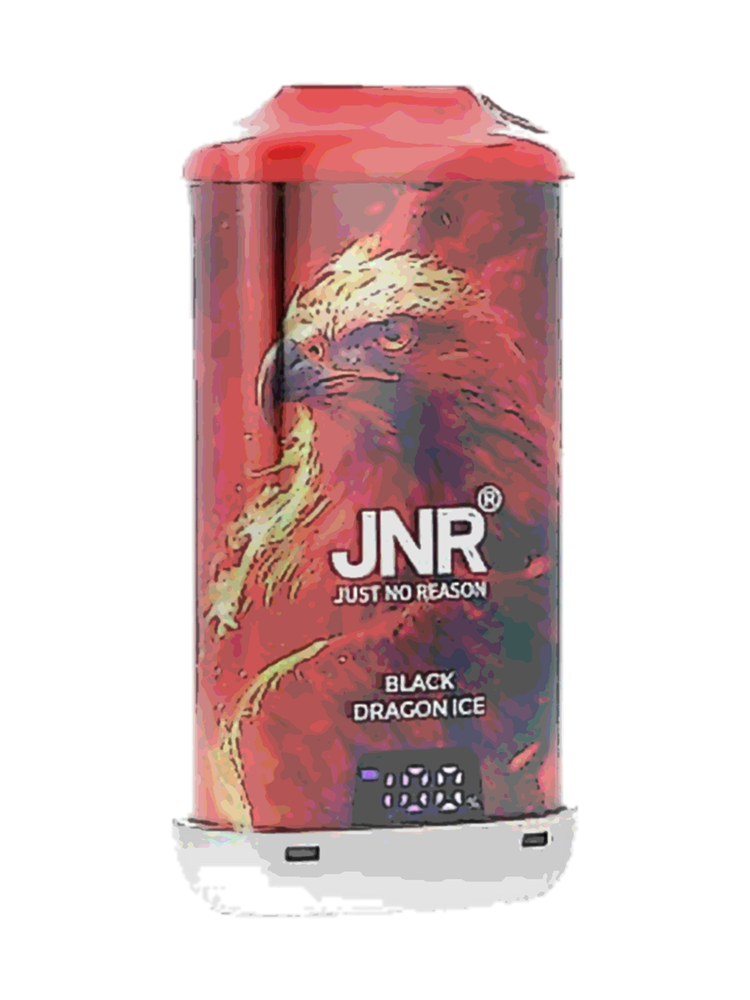
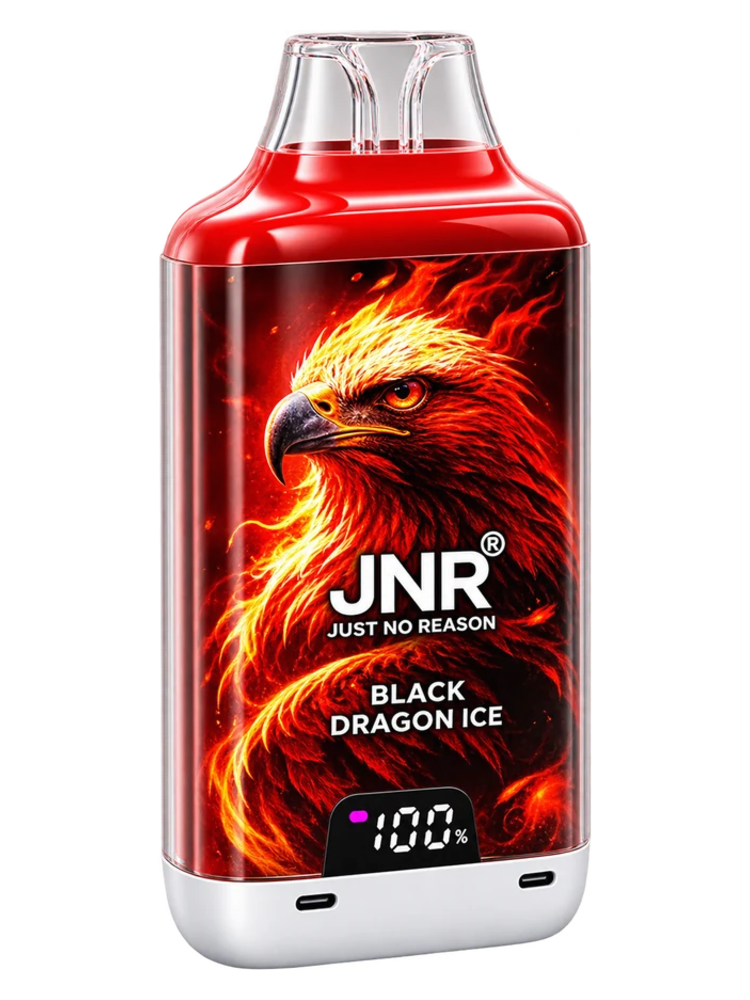
news

diff --git a/js/main.js b/js/main.js
@@ -4,14 +4,14 @@ const CONTACT_EMAIL='';         // ← mettez votre adresse e-mail de contact ic
 const SALES_BASE={};            // ventes de départ par goût, ex. {'cherry-ice':12,'luv-66':7}
 const RAW=[
 "Strawberry Kiwi|#e92420|#efa639|Fraise sucrée et kiwi acidulé, un duo vif et rafraîchissant.",
-"Mixed Berry|#e94f20|#efce39|Assortiment de baies rouges et bleues, doux et fruité.",
+"Mixed Berry|#209ce9|#ef4239|Assortiment de baies rouges et bleues, doux et fruité.",
 "Strawberry Watermelon|#e92420|#efa639|Fraise mûre et pastèque juteuse, l'équilibre estival.",
 "Peach Berry|#e92720|#efa939|Pêche tendre mêlée à des baies sauvages.",
-"Dragon Ice|#e92420|#efa639|Fruit du dragon exotique avec une touche glacée.",
-"Blackberry Red Raspberry|#e92720|#39acef|Mûre profonde et framboise rouge intense.",
-"Blueberry Pomegranate Ice|#20bde9|#395def|Myrtille, grenade et fraîcheur glacée.",
-"Mango Passion Fruit|#20e9b7|#39b2ef|Mangue ensoleillée et fruit de la passion.",
-"Watermelon Mango Peach|#e92420|#efa639|Trio gourmand de pastèque, mangue et pêche.",
+"Dragon Ice|#e92720|#efa939|Fruit du dragon exotique avec une touche glacée.",
+"Blackberry Red Raspberry|#9220e9|#ef4539|Mûre profonde et framboise rouge intense.",
+"Blueberry Pomegranate Ice|#20bae9|#395aef|Myrtille, grenade et fraîcheur glacée.",
+"Mango Passion Fruit|#20e9bd|#39acef|Mangue ensoleillée et fruit de la passion.",
+"Watermelon Mango Peach|#e92720|#efa939|Trio gourmand de pastèque, mangue et pêche.",
 "Blueberry Raspberry Cherry|#20c1e9|#394eef|Myrtille, framboise et cerise : le trio des baies.",
 "Cherry Ice|#20d8e9|#3976ef|Cerise éclatante sur fond de fraîcheur glacée.",
 "Watermelon Ice|#e92420|#efa639|Pastèque désaltérante et sensation glacée.",
@@ -30,7 +30,7 @@ const saveCatalog=c=>store.set('jnr_catalog',c);
 const PHOTOS=new Set(['strawberry-kiwi','mixed-berry','strawberry-watermelon','peach-berry','dragon-ice','blackberry-red-raspberry','blueberry-pomegranate-ice','mango-passion-fruit','watermelon-mango-peach','blueberry-raspberry-cherry','cherry-ice','watermelon-ice','watermelon-bubblegum','cherry-watermelon-freeze','blueberry-sour-raspberry','fizzy-cherry-cola','luv-66']);
 const isPhoto=p=>!p.img&&PHOTOS.has(p.id);
 /* IMG_V : augmentez ce numéro à chaque remplacement d'image pour forcer les navigateurs à recharger */
-const IMG_V=4;
+const IMG_V=5;
 const imgOf=p=>p.img||`images/produits/${p.id}.${PHOTOS.has(p.id)?'png':'svg'}?v=${IMG_V}`;
 const imgCls=p=>isPhoto(p)?' class="photo"':'';
 /* Chaque puff est vendue avec 2 recharges du même goût, ajoutées automatiquement */
